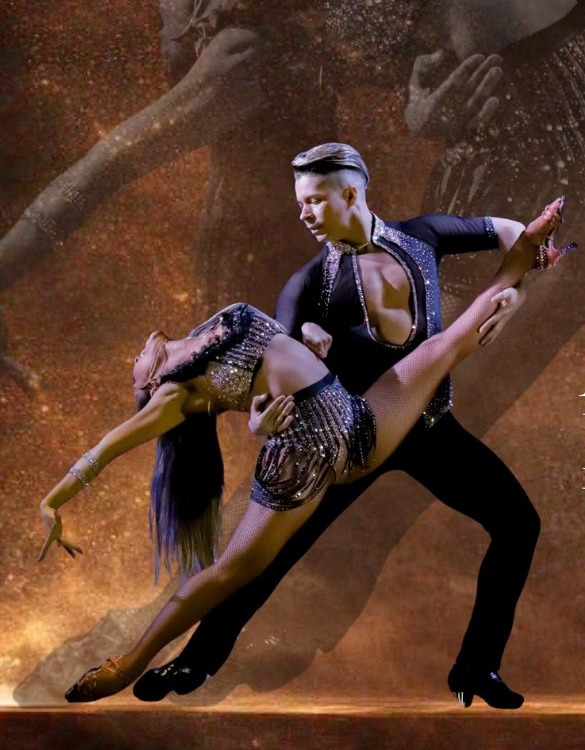
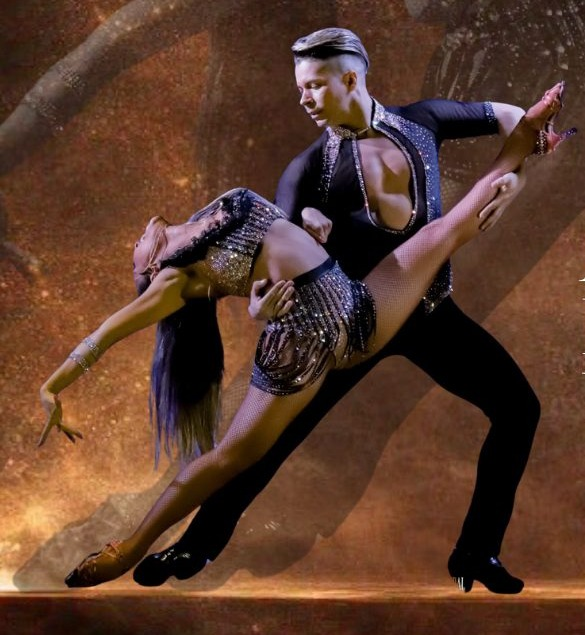
Anchor hero crop to top so dancer's face survives any hero height, add Solo Social card
Re-crops hero-congreso.jpg with minimal headroom above the dancer's
head and switches background-position to center top: since cover
never crops the topmost edge of the image at position 0%, the face
now stays in frame regardless of how short/wide a given hero section
is (index's 100vh vs artistas/contacto's shorter heroes).

Adds a 4th "Solo Social" card to the index "Qué vas a vivir" grid,
linking to a new #social anchor on the precios social-night pricing
section. Added scroll-margin-top globally so anchor jumps clear the
sticky header.

Claude-Session: https://claude.ai/code/session_016E1gdMQULE1oWfHagsjeN9

diff --git a/index.html b/index.html
@@ -77,7 +77,7 @@
   <div class="container">
     <span class="eyebrow">Qué vas a vivir</span>
     <h2 class="kicker-title">Cuatro días, dos competencias, una sola experiencia</h2>
-    <div class="grid grid-3" style="margin-top:2.5rem">
+    <div class="grid grid-4" style="margin-top:2.5rem">
       <div class="card">
         <h3 class="gold">El Mundial</h3>
         <p style="color:var(--cream-2);font-size:.95rem">Final nacional argentina de la competencia creada por Karen y Ricardo, 9 veces campeones mundiales. Jueves y viernes.</p>
@@ -92,6 +92,11 @@
         <h3 class="gold">Talleres y shows</h3>
         <p style="color:var(--cream-2);font-size:.95rem">Clases con Karen y Ricardo, Carine y Rafael, Anthony y Belén y más de 20 artistas. Shows, banda en vivo y social todas las noches.</p>
         <a href="talleres.html" class="btn btn-ghost" style="margin-top:1rem">Ver cronograma</a>
+      </div>
+      <div class="card">
+        <h3 class="gold">Solo Social</h3>
+        <p style="color:var(--cream-2);font-size:.95rem">50% bachata y 50% salsa para bailar toda la noche, con DJs y música en vivo. Entrada suelta viernes, sábado o domingo.</p>
+        <a href="precios.html#social" class="btn btn-ghost" style="margin-top:1rem">Ver entradas a la social</a>
       </div>
     </div>
   </div>

diff --git a/css/styles.css b/css/styles.css
@@ -55,7 +55,7 @@ b,strong{font-weight:700}
   font-weight:500;
 }
 .container{max-width:1180px;margin:0 auto;padding:0 clamp(20px,6vw,48px);position:relative;z-index:1}
-section{position:relative}
+section{position:relative;scroll-margin-top:80px}
 .gold{color:var(--gold)}
 .wine{color:var(--wine-light)}
 
@@ -127,7 +127,7 @@ section{position:relative}
 /* hero */
 .hero{
   min-height:100vh;display:flex;align-items:flex-end;
-  background-size:cover;background-position:center 20%;position:relative;
+  background-size:cover;background-position:center top;position:relative;
   padding:8rem 0 5rem;
 }
 .hero::before{

diff --git a/precios.html b/precios.html
@@ -67,7 +67,7 @@
   </div>
 </section>
 
-<section class="section section-wine">
+<section class="section section-wine" id="social">
   <div class="container">
     <span class="eyebrow">Solo por una noche</span>
     <h2 class="kicker-title">Entradas a las noches de social</h2>

diff --git a/gen_index.py b/gen_index.py
@@ -51,7 +51,7 @@ body = f"""
   <div class="container">
     <span class="eyebrow">Qué vas a vivir</span>
     <h2 class="kicker-title">Cuatro días, dos competencias, una sola experiencia</h2>
-    <div class="grid grid-3" style="margin-top:2.5rem">
+    <div class="grid grid-4" style="margin-top:2.5rem">
       <div class="card">
         <h3 class="gold">El Mundial</h3>
         <p style="color:var(--cream-2);font-size:.95rem">Final nacional argentina de la competencia creada por Karen y Ricardo, 9 veces campeones mundiales. Jueves y viernes.</p>
@@ -66,6 +66,11 @@ body = f"""
         <h3 class="gold">Talleres y shows</h3>
         <p style="color:var(--cream-2);font-size:.95rem">Clases con Karen y Ricardo, Carine y Rafael, Anthony y Belén y más de 20 artistas. Shows, banda en vivo y social todas las noches.</p>
         <a href="talleres.html" class="btn btn-ghost" style="margin-top:1rem">Ver cronograma</a>
+      </div>
+      <div class="card">
+        <h3 class="gold">Solo Social</h3>
+        <p style="color:var(--cream-2);font-size:.95rem">50% bachata y 50% salsa para bailar toda la noche, con DJs y música en vivo. Entrada suelta viernes, sábado o domingo.</p>
+        <a href="precios.html#social" class="btn btn-ghost" style="margin-top:1rem">Ver entradas a la social</a>
       </div>
     </div>
   </div>

diff --git a/gen_precios.py b/gen_precios.py
@@ -41,7 +41,7 @@ body = f"""
   </div>
 </section>
 
-<section class="section section-wine">
+<section class="section section-wine" id="social">
   <div class="container">
     <span class="eyebrow">Solo por una noche</span>
     <h2 class="kicker-title">Entradas a las noches de social</h2>
